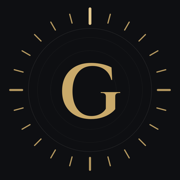
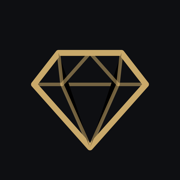
Add files via upload

diff --git a/src/changelog.js b/src/changelog.js
@@ -6,6 +6,7 @@ export const changelog = [
     changes: [
       'A whole new look: a watch-dial face in black and gold — the pay period reads as a power reserve of day ticks, and your top budgets as small dials',
       'Pay day can now follow a weekday rule: a fixed day of the month, the last chosen weekday (e.g. the last Friday), or the last working day of the month',
+      'The diamond app icon returns, redrawn in gold line-work to match the new look, along with matching launch screens',
       'The dashboard now leads with how much is left to spend this pay period and how many days it has to last, instead of a "% of budget used" figure that could read over 100% just because a big unbudgeted expense like rent had landed',
       'A pace bar shows how fast money is going against how far through the period you are, so overspending is visible before the period ends',
       'Consistent colours throughout: mint always means money in, apricot money out, and the alert colour is reserved for genuinely over-budget',

diff --git a/DESIGN.md b/DESIGN.md
@@ -264,7 +264,7 @@ Full-width 50px plate rows (14px radius, 15/600) with a chevron and `aria-expand
 
 ## App identity mark
 
-The icon is the dial in miniature: on dial black, a Cinzel 600 **G** in champagne gold plays the applied numeral, ringed by a 24-tick chapter ring — quarter marks heavier, the pay-day mark at 12 in gold-light and extended — over three etching-faint guilloché rings and a rehaut. The launch splash centers the same mark at 62% on the full dial-black field. Masters live in `.impeccable/icon-src/` (SVG); shipped rasters (`public/icon-{180,192,512}.png`, the iOS `AppIcon-512@2x.png`, and the three splash PNGs) each carry embedded provenance. Regenerate via qlmanage + sips from the masters.
+The icon is **The Diamond** — the app's original diamond identity reborn in this world: a brilliant-cut diamond in champagne-gold line-work (solid outline; crown, girdle and pavilion facet lines at 0.55 opacity) on dial black. User-chosen from a three-mark hand (coin / diamond / dial). Two stroke weights ship: the master (20/12 at 1024, used for 512 and the iOS 1024) and a heavier small-size cut (34/20, used for 192/180) so the line-work holds at home-screen scale. The launch splash centers the mark at 62% on the full dial-black field. Masters live in `.impeccable/icon-src/` (`gild-icon.svg`, `gild-icon-small.svg`, `gild-splash.svg`); every shipped raster carries embedded provenance. Regenerate via qlmanage + sips.
 
 ## Motion
 
